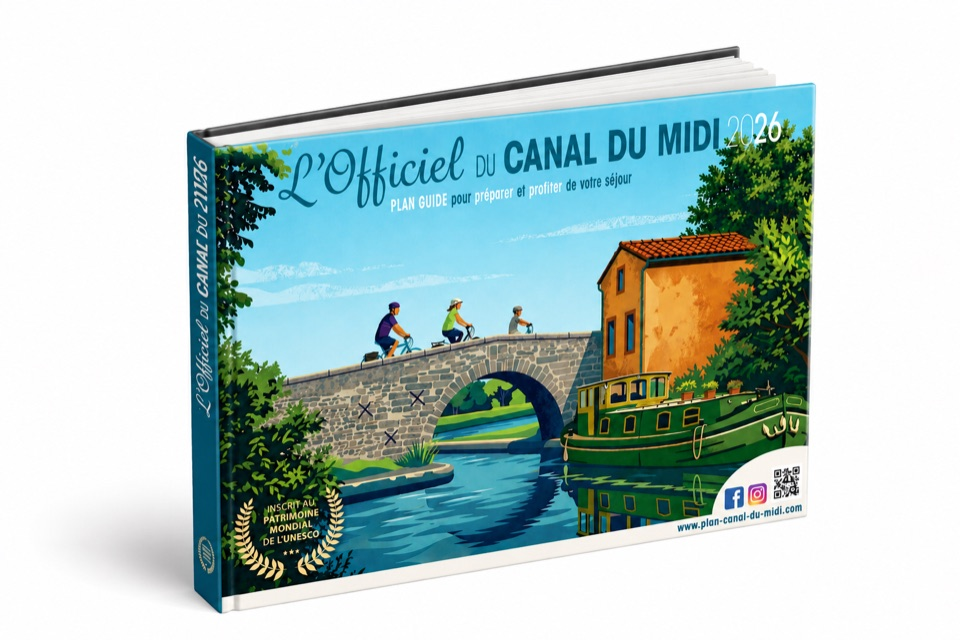
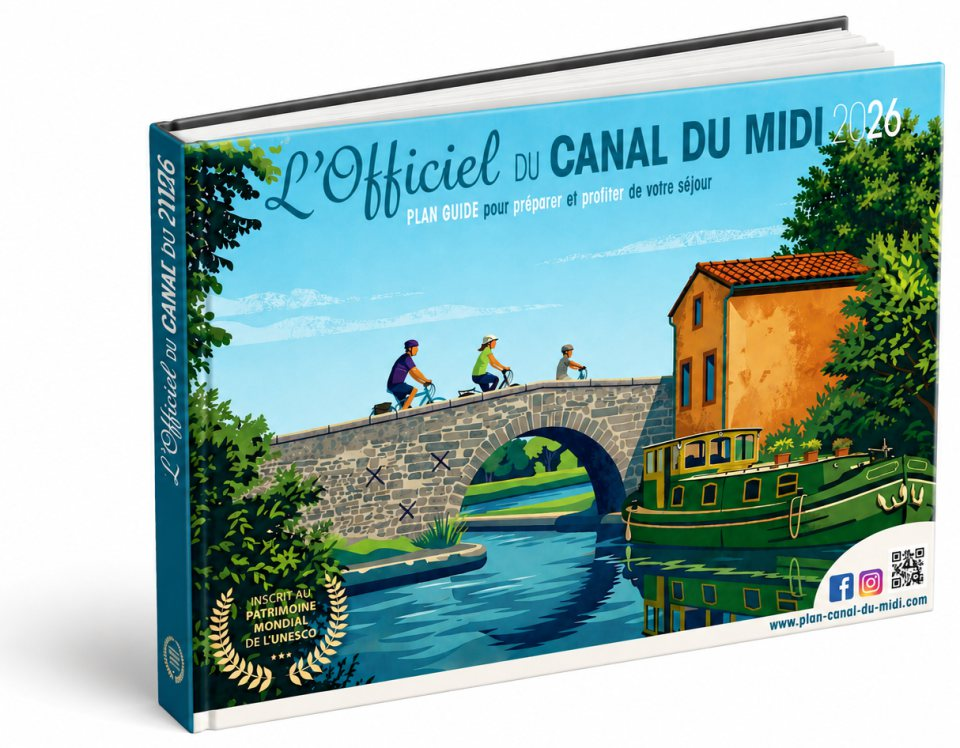
fix(wp-home): libro del plan más grande — imagen recortada al libro (sin ~25% de blanco), sin marco en móvil, URL versionada
Claude-Session: https://claude.ai/code/session_016YwXpxfdFryU87C1yx2sze

diff --git a/wp-plugin/canal-home/assets/home.css b/wp-plugin/canal-home/assets/home.css
@@ -2034,7 +2034,8 @@
 
 @media (max-width: 820px) {
     .cdm-home .plan-viewer { flex: none; width: 100%; }
-    .cdm-home .plan-viewer-img { height: auto; }
+    /* Sin marco (tarjeta blanca dentro de otra): el libro ocupa todo el ancho. */
+    .cdm-home .plan-viewer-img { height: auto; box-shadow: none; background: transparent; border-radius: 0; }
     /* iOS Safari amplía la página al enfocar campos con letra < 16px. */
     .cdm-home .search-field-input, .cdm-home .newsletter-form input, .cdm-home .hero-ai-textarea { font-size: 16px; }
     /* Zona táctil ≥ 44px. */

diff --git a/wp-plugin/build/home-extra.css b/wp-plugin/build/home-extra.css
@@ -134,7 +134,8 @@ p { color: inherit; }
 
 @media (max-width: 820px) {
     .plan-viewer { flex: none; width: 100%; }
-    .plan-viewer-img { height: auto; }
+    /* Sin marco (tarjeta blanca dentro de otra): el libro ocupa todo el ancho. */
+    .plan-viewer-img { height: auto; box-shadow: none; background: transparent; border-radius: 0; }
     /* iOS Safari amplía la página al enfocar campos con letra < 16px. */
     .search-field-input, .newsletter-form input, .hero-ai-textarea { font-size: 16px; }
     /* Zona táctil ≥ 44px. */

diff --git a/wp-plugin/canal-home/template-home.php b/wp-plugin/canal-home/template-home.php
@@ -284,9 +284,9 @@ get_header();
     <section id="plan" class="section newsletter-section">
         <div class="container newsletter-box" data-reveal="up">
             <div class="plan-viewer">
-                <img src="<?= esc_url(CANAL_HOME_URL . 'assets/plan-canal-du-midi-2026.jpg') ?>"
+                <img src="<?= esc_url(CANAL_HOME_URL . 'assets/plan-canal-du-midi-2026.jpg?ver=' . filemtime(CANAL_HOME_DIR . 'assets/plan-canal-du-midi-2026.jpg')) ?>"
                      alt="Plan du Canal du Midi 2026 — cliquez pour le feuilleter" role="button" tabindex="0"
-                     width="960" height="640" loading="lazy"
+                     width="960" height="748" loading="lazy"
                      class="plan-viewer-img"
                      data-open-plan-modal>
             </div>
